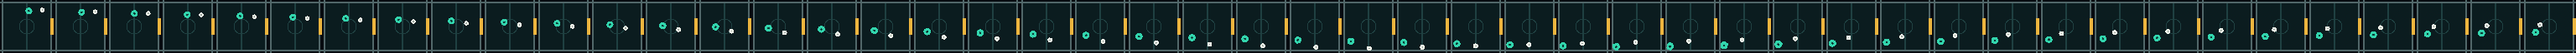
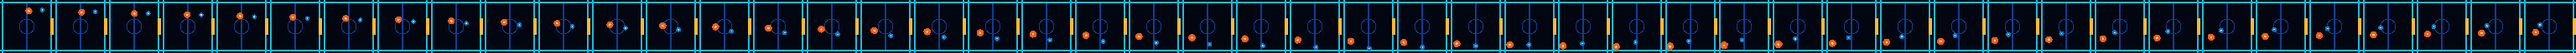
Restore playable model with galactic palette

Changed region(s): [[0.0, 0.125, 1.0, 0.9688], [0.0, 0.0312, 1.0, 0.0625]]

diff --git a/components/blocket-league/live-world-model.tsx b/components/blocket-league/live-world-model.tsx
@@ -51,6 +51,8 @@ type EngineState = {
   starterContext: Float32Array;
   history: Float32Array;
   lastGreenSpatialMask: Float32Array;
+  steeringPhase: number;
+  lastRequestedAction: number;
 };
 
 type DreamFrame = { image: ImageData; action: number };
@@ -129,25 +131,35 @@ export function greenTokenMask(
   const pixels = manifest.frameSize * manifest.frameSize;
   const offset = history.length - pixels;
   const spatial = new Float32Array(manifest.gridSize * manifest.gridSize);
-  let peakMass = 0;
+  let mass = 0;
+  let centroidX = 0;
+  let centroidY = 0;
   for (let pixel = 0; pixel < pixels; pixel += 1) {
     const value = Number(history[offset + pixel]);
     if (value !== 5 && value !== 6) continue;
-    const patchX = Math.floor((pixel % manifest.frameSize) / manifest.patchSize);
-    const patchY = Math.floor(Math.floor(pixel / manifest.frameSize) / manifest.patchSize);
-    const patch = patchY * manifest.gridSize + patchX;
-    spatial[patch] += 1;
-    peakMass = Math.max(peakMass, spatial[patch]);
+    mass += 1;
+    centroidX += (pixel % manifest.frameSize) + 0.5;
+    centroidY += Math.floor(pixel / manifest.frameSize) + 0.5;
+  }
+  if (mass > 0) {
+    const patchX = Math.min(
+      manifest.gridSize - 1,
+      Math.max(0, Math.floor((centroidX / mass) / manifest.patchSize)),
+    );
+    const patchY = Math.min(
+      manifest.gridSize - 1,
+      Math.max(0, Math.floor((centroidY / mass) / manifest.patchSize)),
+    );
+    spatial[patchY * manifest.gridSize + patchX] = 1;
   }
   const mask = new Float32Array(manifest.historyFrames * manifest.gridSize * manifest.gridSize);
-  const routed = peakMass > 0 ? spatial : fallback;
+  const routed = mass > 0 ? spatial : fallback;
   if (!routed?.some((value) => value > 0)) return { mask, spatial };
-  const scale = peakMass > 0 ? peakMass : Math.max(...routed);
   const timeOffset = (manifest.historyFrames - 1) * manifest.gridSize * manifest.gridSize;
   for (let patch = 0; patch < routed.length; patch += 1) {
-    mask[timeOffset + patch] = routed[patch] / Math.max(scale, 1);
+    mask[timeOffset + patch] = routed[patch];
   }
-  return { mask, spatial: peakMass > 0 ? spatial : routed.slice() };
+  return { mask, spatial: mass > 0 ? spatial : routed.slice() };
 }
 
 function steeringVector(action: number, manifest: LiveManifest) {
@@ -166,6 +178,12 @@ function steeringVector(action: number, manifest: LiveManifest) {
 
 async function generateFrame(engine: EngineState, action: number) {
   const { manifest, runtime } = engine;
+  if (action !== engine.lastRequestedAction) {
+    engine.steeringPhase = 0;
+    engine.lastRequestedAction = action;
+  }
+  const appliedAction = action !== 0 && engine.steeringPhase < 4 ? action : 0;
+  engine.steeringPhase = action === 0 ? 0 : (engine.steeringPhase + 1) % 8;
   const greenRouting = greenTokenMask(engine.history, manifest, engine.lastGreenSpatialMask);
   const result = await engine.dynamics.run({
     pixel_history: new runtime.Tensor(
@@ -175,7 +193,7 @@ async function generateFrame(engine: EngineState, action: number) {
     ),
     intervention: new runtime.Tensor(
       "float32",
-      steeringVector(action, manifest),
+      steeringVector(appliedAction, manifest),
       [1, manifest.hiddenSize],
     ),
     intervention_mask: new runtime.Tensor(
@@ -299,6 +317,8 @@ export function LiveWorldModel() {
         starterContext: starterContext.slice(),
         history: starterContext.slice(),
         lastGreenSpatialMask: greenTokenMask(starterContext, manifest).spatial,
+        steeringPhase: 0,
+        lastRequestedAction: 0,
       };
       setLoadProgress(1);
       setStatus("ready");
@@ -396,6 +416,8 @@ export function LiveWorldModel() {
     if (engine) {
       engine.history = engine.starterContext.slice();
       engine.lastGreenSpatialMask = greenTokenMask(engine.history, engine.manifest).spatial;
+      engine.steeringPhase = 0;
+      engine.lastRequestedAction = 0;
     }
     keysRef.current.clear();
     manualActionRef.current = null;

diff --git a/blocket_league/env.py b/blocket_league/env.py
@@ -33,15 +33,15 @@ ACTION_NAMES = (
 )
 
 PALETTE = {
-    "outside": np.asarray((7, 11, 16), dtype=np.uint8),
-    "field": np.asarray((11, 28, 31), dtype=np.uint8),
-    "line": np.asarray((31, 64, 65), dtype=np.uint8),
-    "wall": np.asarray((81, 103, 105), dtype=np.uint8),
-    "goal": np.asarray((238, 181, 62), dtype=np.uint8),
-    "player": np.asarray((50, 213, 173), dtype=np.uint8),
-    "player_core": np.asarray((11, 57, 52), dtype=np.uint8),
-    "puck": np.asarray((239, 242, 233), dtype=np.uint8),
-    "puck_core": np.asarray((150, 161, 153), dtype=np.uint8),
+    "outside": np.asarray((1, 1, 6), dtype=np.uint8),
+    "field": np.asarray((2, 6, 16), dtype=np.uint8),
+    "line": np.asarray((7, 63, 156), dtype=np.uint8),
+    "wall": np.asarray((21, 188, 228), dtype=np.uint8),
+    "goal": np.asarray((255, 186, 50), dtype=np.uint8),
+    "player": np.asarray((255, 91, 26), dtype=np.uint8),
+    "player_core": np.asarray((255, 225, 115), dtype=np.uint8),
+    "puck": np.asarray((8, 122, 199), dtype=np.uint8),
+    "puck_core": np.asarray((183, 244, 255), dtype=np.uint8),
 }
 
 

diff --git a/docs/retraining-provenance.md b/docs/retraining-provenance.md
@@ -1,0 +1,144 @@
+# Pixel-model retraining provenance
+
+This note records the July 26, 2026 palette-migration experiment, including
+failed checkpoints. It is intentionally more detailed than the lab narrative
+so the model choice remains auditable.
+
+## Model currently exported to the browser
+
+The browser export was restored to the known-good recovery checkpoint after the
+new palette retrain failed the long-rollout acceptance test. The simulator's
+nine semantic class IDs did not change, so the old categorical model remains
+valid. Rendered PNG assets and the browser manifest palette were remapped
+class-for-class to the blue/orange palette; no model output was color-matched or
+approximated.
+
+The exported checkpoint has two training phases:
+
+1. A 30,000-step base run (`passive-pixel-direct-deterministic-reset-30000`)
+   with batch size 16.
+2. A 12,000-step recovery fine-tune
+   (`passive-pixel-direct-recovery-finetune-12000`) with batch size 16.
+
+That is 42,000 optimizer steps/minibatches in the full checkpoint lineage,
+672,000 sampled training sequences, and 5,376,000 teacher next-frame targets
+(eight targets per sequence). The browser manifest reports `checkpointStep:
+12000` because that field records the final fine-tuning phase, not the sum of
+the two phases.
+
+The exact recovery command was:
+
+```bash
+uvx --from modal modal run blocket_league/modal_app.py \
+  --stage pixel-direct \
+  --preset tiny \
+  --steps 12000 \
+  --batch-size 16 \
+  --learning-rate 0.0001 \
+  --workers 6 \
+  --eval-samples 128 \
+  --latent-cache-samples 16384 \
+  --latent-rollout-frames 64 \
+  --late-frame-weight 1.75 \
+  --warmup-steps 300 \
+  --pixel-entity-corruption-fraction 0.20 \
+  --pixel-model-rollin-fraction 0.35 \
+  --pixel-model-rollin-start-step 0 \
+  --pixel-model-rollin-ramp-steps 2000 \
+  --goal-centered-fraction 0.35 \
+  --init-checkpoint \
+    blocket_league/outputs/passive-pixel-direct-deterministic-reset-30000/checkpoint.pt \
+  --gpu H100 \
+  --output-dir \
+    blocket_league/outputs/passive-pixel-direct-recovery-finetune-12000
+```
+
+The base phase ran for 963.900 seconds after a 27.231-second cache build. The
+final phase ran for 481.785 seconds after a 25.657-second cache build. Together,
+the trainer-reported cache, training, and evaluation time was 1,498.572 seconds
+(24 minutes 58.6 seconds) on an NVIDIA H100. This excludes Modal image build,
+container startup, and artifact transfer time.
+
+The recovery phase's final minibatch loss was 0.02764 and its 50-step loss EMA
+was 0.02475. On 128 held-out worlds, the mean entity-position error through
+frame 12 was 0.928 pixels; through the 64-frame rollout it was 6.532 pixels.
+
+## Browser-export acceptance test
+
+The exported ONNX model was tested using the same inputs as the browser:
+eight categorical 64×64 history frames, a block-5 residual-stream write routed
+to the latest player-centroid patch, and the site's four-frames-on /
+four-frames-off steering schedule.
+
+- Baseline: 128 unique frames in a 128-frame rollout; all of the final 32
+  frames were unique.
+- Player shape: median 56.5 pixels, 54 pixels on the final frame, and a largest
+  connected-component fraction of 1.0.
+- At frame 32, all four held directions displaced the player from its matched
+  no-write baseline in the requested direction: right 1.59 px, left 18.89 px,
+  down 10.78 px, and up 16.11 px.
+- All four steered 128-frame rollouts continued changing and retained a
+  connected player component. After collisions, wall contacts, and goal resets,
+  absolute centroid differences from the no-write baseline are no longer a
+  meaningful sign test because the two rollouts occupy different world phases.
+
+Continuous writes were also tested. They steer correctly, but sustained
+vertical writes grow the player class mass. The pulsed schedule is therefore
+the safer browser policy.
+
+## Rejected July 26 palette retrain
+
+The new-palette H100 run was:
+
+```bash
+uv run modal run blocket_league/modal_app.py \
+  --stage pixel-direct \
+  --gpu H100 \
+  --preset tiny \
+  --steps 30000 \
+  --batch-size 24 \
+  --learning-rate 0.0002 \
+  --seed 59 \
+  --workers 8 \
+  --log-every 250 \
+  --eval-samples 128 \
+  --pixel-history-frames 8 \
+  --latent-rollout-frames 64 \
+  --latent-cache-samples 16384 \
+  --goal-centered-fraction 0.35 \
+  --pixel-corruption-rate 0.06 \
+  --pixel-entity-corruption-fraction 0.25 \
+  --pixel-model-rollin-fraction 0.35 \
+  --pixel-model-rollin-start-step 3000 \
+  --pixel-model-rollin-ramp-steps 7000 \
+  --late-frame-weight 2.0 \
+  --ema-decay 0.9995 \
+  --warmup-steps 500 \
+  --output-dir blocket_league/outputs/pixel-galactic-30k
+```
+
+Accounting: 30,000 optimizer steps/minibatches, batch size 24, 720,000 sampled
+sequences, and 5,760,000 teacher next-frame targets. The cache contained 16,384
+worlds × 24 frames = 393,216 rendered frames and 262,144 candidate windows.
+Training plus evaluation took 1,676.085 seconds after a 29.720-second cache
+build. Final loss was 0.02579 (50-step EMA 0.02867).
+
+Although its 12-frame held-out error was 1.376 pixels and its probes remained
+strong, the exported rollout reached an exact fixed point: generated frames
+72–128 were identical and both entities had zero motion over the final 32
+frames. It therefore failed the browser acceptance gate.
+
+Two corrective smoke runs tested motion-weighted loss, foreground-occupancy
+loss, and an explicit four-step autoregressive objective:
+
+- 2,000 steps with 10× changed-pixel weighting avoided freezing but produced
+  catastrophic entity growth (only 6.5% valid player mass and 2.1% valid puck
+  mass).
+- 5,000 steps with 4× entity-change weighting, occupancy weight 0.5, and a
+  four-step autoregressive loss also avoided freezing, but mean 12-frame error
+  rose to 4.526 pixels and valid mass remained only 52.4% for the player and
+  21.0% for the puck.
+
+Those checkpoints and summaries remain under
+`blocket_league/outputs/pixel-galactic-*` for diagnosis. They are not exported
+to the site.

diff --git a/content/blocket-league-copy.md b/content/blocket-league-copy.md
@@ -17,11 +17,13 @@ This is not perfect but clearly has grokked the basic physics of the game, inclu
 <!-- /block -->
 
 <!-- block:dataset -->
-Blocket League is a deliberately simple world with two freely moving discs, elastic collisions, wall bounces, and a goal. We sample *M* trajectories with randomized initial positions and velocities, then record the resulting frames. Neither disc is controlled by an agent or player, so every trajectory is an autonomous physics sample.
+Blocket League is a deliberately simple world with two freely moving discs, elastic collisions, wall bounces, and a goal. We render a fixed training cache of 16,384 autonomous worlds, each 24 frames long, with randomized initial positions and velocities. Neither disc is controlled by an agent or player, so every trajectory is a passive physics sample.
 <!-- /block -->
 
 <!-- block:model -->
 For this lab, we train an 8-frame × 16 × 16-patch pixel transformer. Pixel transformers, following the autoregressive formulation of the [Image Transformer](https://arxiv.org/abs/1802.05751), ingest raw pixels and learn to predict the next frame. Our complete 3.67M-parameter architecture lives in [one Python file](https://github.com/jayhack/blocket-league/blob/main/blocket_league/pixel_direct_model.py).
+
+The exported checkpoint is trained for 42,000 optimizer steps—30,000 base minibatches plus a 12,000-step recovery fine-tune—at batch size 16. Because training windows are sampled with replacement, conventional epochs do not apply. Across both phases, the model sees 672,000 sampled histories and 5.376 million next-frame prediction targets. Rendering the caches, training, and evaluation take 24 minutes and 59 seconds on one H100.
 <!-- /block -->
 
 <!-- block:model-results -->
